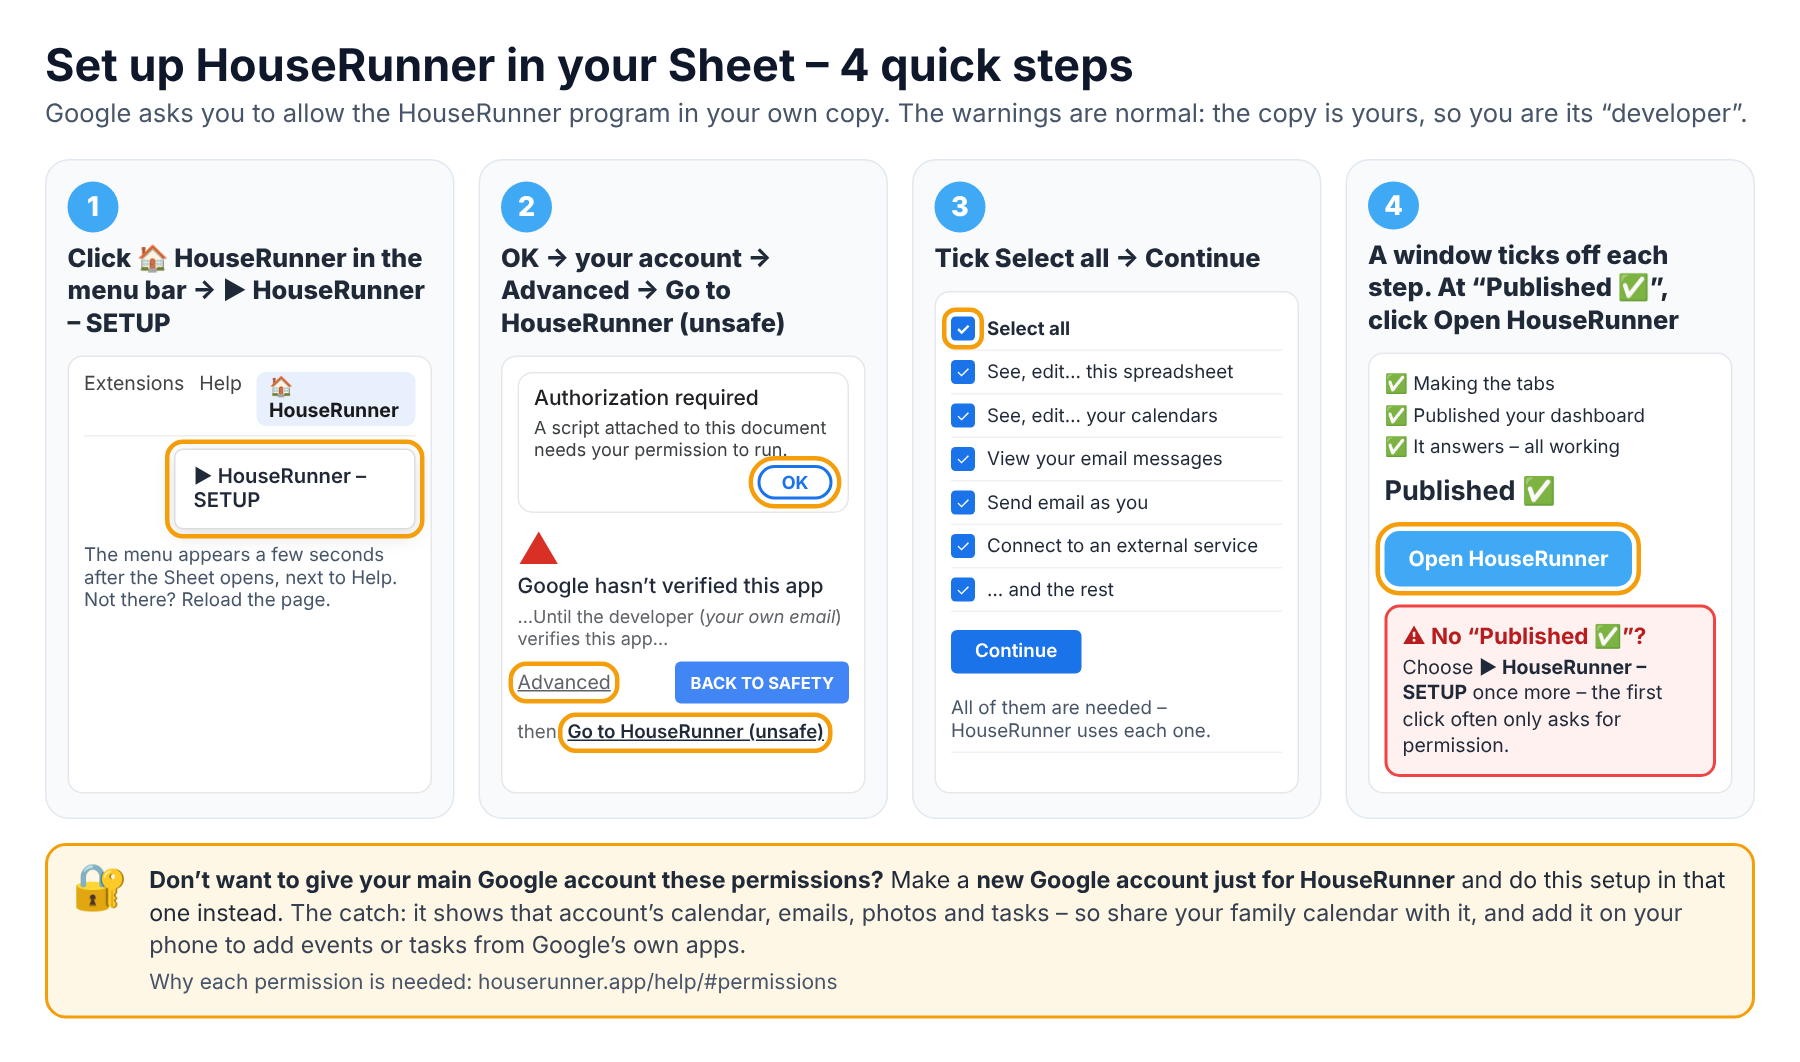
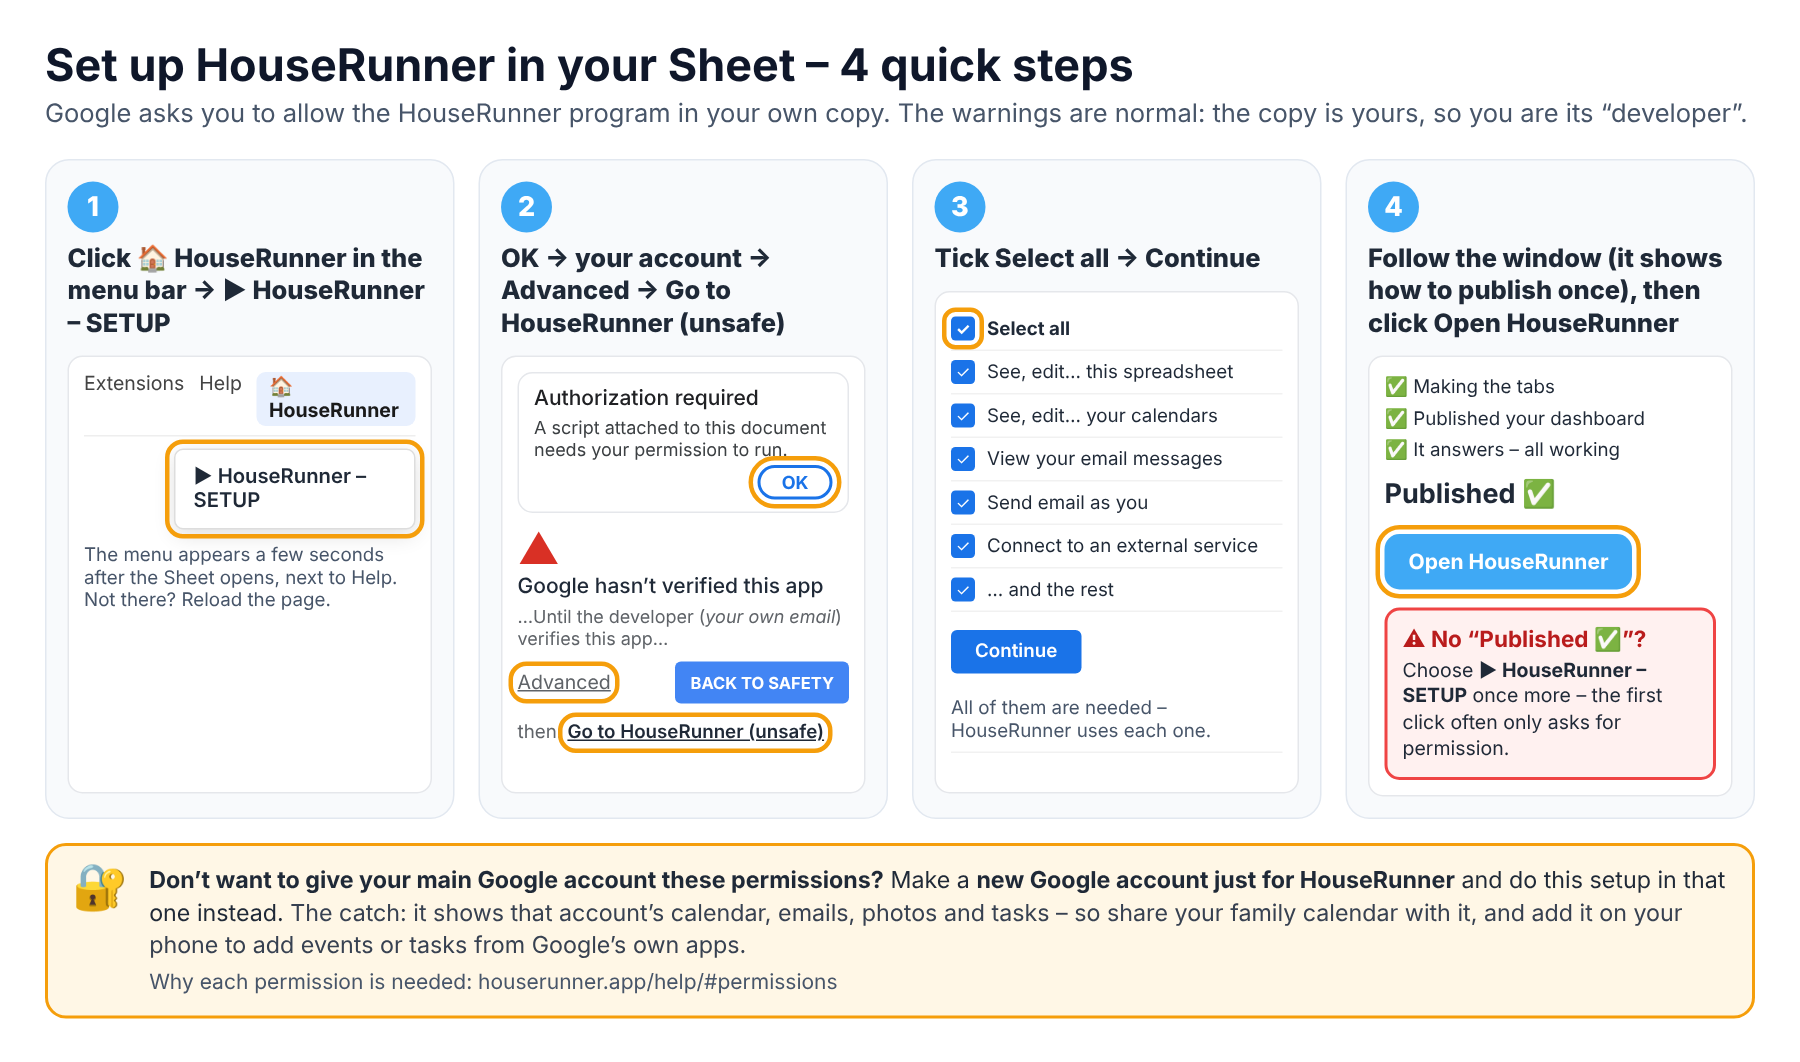
2026.11.273: guided one-off Deploy in SETUP, two fewer permissions
Claude-Session: https://claude.ai/code/session_01R2kV4GW3UVFR51NzUKtdLQ

Changed region(s): [[0.7467, 0.3418, 0.9644, 0.7458], [0.7467, 0.2175, 0.9644, 0.3107]]

diff --git a/shared/privacy.js b/shared/privacy.js
@@ -3,7 +3,7 @@
  * (Plain English draft – have it checked before giving the dashboard to people outside your own family.)
  */
 window.FD_PRIVACY = {
-    version: '5',
+    version: '6',
     updated: '8 November 2026',
     summary: [
         'Your family’s information is kept in <b>your own Google account</b> (a Google Sheet and script you own). The people who make HouseRunner can’t see it.',
@@ -16,7 +16,7 @@ window.FD_PRIVACY = {
     full: '' +
         '<h3>Who holds your information</h3><p>Everything you put into HouseRunner – children’s names, points, tasks, reminders, notes, lists, settings and API keys – is stored in a Google Sheet in your own Google account, and is processed by a Google script that you publish from that Sheet. The people who make and host HouseRunner do not receive or store any of it. You can see it all in the Sheet, and you can delete it at any time by deleting the Sheet (and its web app deployment).</p>' +
         '<h3>What the app files are</h3><p>The dashboard, Family Admin and the website are all web pages at houserunner.app, hosted on GitHub Pages. When a device loads them, GitHub (like any website) receives the device’s IP address. The pages then talk only to your own Google script. The website and its welcome page load a QR-code library from cdnjs.cloudflare.com.</p>' +
-        '<h3>Google permissions</h3><p>When you set up your Sheet, Google asks you to allow eleven things. Some are worded broadly (“all” your calendars or files) because Google doesn’t offer narrower versions for a script like this. What HouseRunner actually does with each:</p><ul>' +
+        '<h3>Google permissions</h3><p>When you set up your Sheet, Google asks you to allow nine things. Some are worded broadly (“all” your calendars or files) because Google doesn’t offer narrower versions for a script like this. What HouseRunner actually does with each:</p><ul>' +
         '<li><b>This spreadsheet</b> – reads and writes your own HouseRunner Sheet. It has no access to your other spreadsheets.</li>' +
         '<li><b>Calendar</b> – shows your family calendar’s events, and adds or changes the ones you enter in HouseRunner.</li>' +
         '<li><b>Gmail, read only</b> – the Parcels widget reads delivery emails. It can’t change, send or delete any email.</li>' +
@@ -26,7 +26,6 @@ window.FD_PRIVACY = {
         '<li><b>Connect to an external service</b> – weather, traffic, trains, bins and the other widgets you switch on (listed below), and HouseRunner’s licence check.</li>' +
         '<li><b>Run when you’re not present</b> – the timers that keep the dashboard up to date overnight.</li>' +
         '<li><b>Display content in prompts and sidebars</b> – the HouseRunner menu’s own small windows in your Sheet.</li>' +
-        '<li><b>Create and update Apps Script projects and deployments</b> – so your Sheet can publish itself (the “Published ✅” step), without you using Google’s Deploy screens.</li></ul>' +
         '<p>These run as you, inside your Google account. Nothing is sent to HouseRunner except what’s described on this page. Rather keep them off your main account? Set HouseRunner up in a new Google account just for it.</p>' +
         '<h3>Updates</h3><p>The script in your Sheet is a small “loader”: each time it runs, it downloads the current HouseRunner program from the site that hosts these apps (houserunner.app) and runs it, keeping a copy in a hidden tab of your Sheet in case the site can’t be reached. That program runs with the same access as the rest of the script, so only use it if you trust whoever publishes that site.</p>' +
         '<h3>Licence checks</h3><p>HouseRunner is sold under licence. Once a day your Google script contacts the seller’s licence server (a Google Apps Script web app in the seller’s Google account) and sends your licence key, a random installation number made by your script, and the version of the script. The seller’s register links the key to the name, email address and order number you gave when you bought it, and records the date of each check and the version. Nothing from your dashboard itself (names, calendar, points, locations and so on) is sent. If you connect a new screen by scanning its code, your family’s private link passes through the seller’s licence server for up to 10 minutes, locked with that code so the seller can’t read it. The seller keeps this to manage licences and to deal with refunds or misuse.</p>' +

diff --git a/help/topics.js b/help/topics.js
@@ -29,7 +29,6 @@ window.FD_HELP = [
 <li><b>Connect to an external service</b> – downloading the HouseRunner program, live information (weather, trains, buses, traffic, flights, news) and the daily licence check.</li>
 <li><b>Display and run third-party web content in prompts and sidebars</b> – the 🏠 HouseRunner menu and its windows in your Sheet.</li>
 <li><b>Allow this application to run when you are not present</b> – the timers that keep it up to date and check the licence.</li>
-<li><b>Create and update Google Apps Script projects and deployments</b> – so it can publish itself, without you using Google’s Deploy screens.</li>
 </ul>
 <p>If one is unticked, ▶ HouseRunner – SETUP asks again until all are allowed. If one is taken away later, only the part that needs it stops, and says which permission it needs.</p>
 <h2>Rather not give your main Google account these permissions? Use a separate one</h2>
@@ -46,7 +45,7 @@ window.FD_HELP = [
 <dl>
 <dt>“Make my copy” asks me to sign in, or copies into the wrong account</dt><dd>Sign in with the Google account the dashboard should live in – the one with the family calendar. If you’re signed into two accounts, Google uses the one shown at the top right; switch there and click <b>Make my copy</b> again.</dd>
 <dt>There’s no 🏠 HouseRunner menu in my Sheet</dt><dd>It appears a few seconds after the Sheet opens, at the end of the menus along the top (after <b>Help</b>). If it doesn’t, reload the Sheet’s tab. Still nothing? Use <b>Publish it by hand instead</b> on the setup page.</dd>
-<dt>It asks me to turn on the “Google Apps Script API”</dt><dd>That’s Google’s switch that lets your copy publish itself. Open <b>script.google.com/home/usersettings</b>, turn <b>Google Apps Script API</b> on, and go back to the SETUP window – it waits and carries on by itself (if you closed it, choose <b>🏠 HouseRunner → ▶ HouseRunner – SETUP</b> again). Check it’s the same Google account as your Sheet (top right). You only do it once.</dd>
+<dt>The SETUP window asks me to publish with Google’s Deploy button</dt><dd>That’s a one-off: Google only lets you publish your own copy. Click <b>Open Apps Script</b> in the window, then the blue <b>Deploy</b> button (top right) → <b>New deployment</b> → the ⚙ next to <b>Select type</b> → <b>Web app</b>. Set <b>Execute as: Me</b> and <b>Who has access: Anyone</b>, click <b>Deploy</b> (allow it if Google asks), then <b>Done</b>. Go back to the SETUP window – it notices by itself and carries on.</dd>
 <dt>I can’t find Deploy</dt><dd>You only need Deploy if you’re publishing by hand. It’s in the <b>Apps Script</b> tab, not the Sheet: in the Sheet click <b>Extensions → Apps Script</b>. <b>Deploy</b> is the blue button at the top right of that tab.</dd>
 <dt>Deploy just spins, or Google keeps asking for permission</dt><dd>Nearly always the browser is signed in to more than one Google account. Open a private window (Chrome: Ctrl+Shift+N), sign in with only the account the Sheet is in, open the Sheet from drive.google.com and deploy there. Use Chrome or Edge and allow pop-ups. Press Save (💾) in Apps Script before Deploy. If it still spins, make a fresh copy and deploy that in the private window.</dd>
 <dt>“Google hasn’t verified this app”</dt><dd>That’s normal: it’s your own private copy, which Google hasn’t reviewed. Click <b>Advanced</b> (small, bottom left), then <b>Go to HouseRunner (unsafe)</b>, then <b>Select all</b> → <b>Continue</b>.</dd>

diff --git a/setup/guide/setup.js b/setup/guide/setup.js
@@ -23,7 +23,6 @@
             '<li><b>Google Tasks</b> – the <b>To-Do List (Google)</b>.</li>' +
             '<li><b>Connect to an external service</b> – fetching the HouseRunner program, live information (weather, trains, traffic…) and the licence check.</li>' +
             '<li><b>Display content in prompts and sidebars</b> – the 🏠 HouseRunner menu in your Sheet. <b>Run when you’re not present</b> – the timers that keep it up to date.</li>' +
-            '<li><b>Create and update Apps Script projects and deployments</b> – so it can publish itself, without you using Google’s Deploy screens.</li></ul>' +
             '<div class="note warn"><b>Don’t want to give your main Google account these permissions?</b> Make a <a href="https://accounts.google.com/signup" target="_blank" rel="noopener">new Google account just for HouseRunner</a> and do this setup signed in to that one. ' +
             'The catch: it shows that account’s calendar, emails, photos and tasks – so share your family calendar with it, and add it on your phone to add events or tasks from Google’s own apps.</div>' +
             '</div>';
@@ -241,7 +240,7 @@
                         '<span class="mute">Pressed Cancel, or saw <b>“Access is denied”</b> / <b>“This app is blocked”</b>? Nothing has been changed – close that tab, go back to your Sheet and choose <b>▶ HouseRunner – SETUP</b> again.</span></li>' +
                     '<li><div class="note bad"><b>⚠ No “Published ✅” message yet?</b> Then choose <b>🏠 HouseRunner → ▶ HouseRunner – SETUP</b> once more. ' +
                         '<span class="mute">Usually it’s needed: Google stops as soon as you’ve allowed it, so the first click only asks for permission and the second one does the work. ' +
-                        'If it asks you to turn on one Google switch (the Apps Script API), follow its link and turn it on – the window waits, and carries on by itself.</span></div></li>' +
+                        'The first time, the window also shows you how to <b>publish</b> your dashboard – once, with Google’s Deploy button (about a minute) – and carries on by itself when that’s done.</span></div></li>' +
                     '<li>A <b>HouseRunner – SETUP</b> window shows each step as it happens (about a minute – leave it open). When it says <b>“Published ✅”</b>, click <b>Open HouseRunner</b> – setup carries on there, already connected. You can close this tab.</li></ol>' +
                     '<div class="status">⏳ Waiting for your Sheet to say <b>Published ✅</b> – this page notices by itself and carries on. No need to press Next.</div>' +
                     '<details class="pic"><summary>Show me a picture of these screens</summary><img src="../../shared/brand/sheet-start.png" alt="The four screens: the HouseRunner menu, Google’s warning, the permissions, and Published" style="width:100%;border-radius:12px;margin-top:10px"></details>' +

diff --git a/index.html b/index.html
@@ -24,11 +24,11 @@
         window.FD_DESK = true; window.FD_PHONE = !!phone;
     })();
     </script>
-    <link rel="stylesheet" href="shared/base.css?v=202611272">
-    <link rel="stylesheet" href="admin/admin.css?v=202611272">
-    <link rel="stylesheet" href="setup/desk.css?v=202611272">
-    <link rel="stylesheet" href="setup/editor.css?v=202611272">
-    <link rel="stylesheet" href="admin/phone.css?v=202611272">
+    <link rel="stylesheet" href="shared/base.css?v=202611273">
+    <link rel="stylesheet" href="admin/admin.css?v=202611273">
+    <link rel="stylesheet" href="setup/desk.css?v=202611273">
+    <link rel="stylesheet" href="setup/editor.css?v=202611273">
+    <link rel="stylesheet" href="admin/phone.css?v=202611273">
     <style>
 #landing { min-height: 100vh; }
 #landing .ld-wrap { max-width: 1100px; margin: 0 auto; padding: 30px 18px 50px; }
@@ -206,20 +206,20 @@
     </div></div>
     <!-- Connected: houserunner.app (computer) or Family Admin (phone) – the same app. -->
     <div id="app"></div>
-    <script src="shared/storecheck.js?v=202611272"></script>
-    <script src="shared/fd.js?v=202611272"></script>
-    <script src="dashboard/scripts/platform.js?v=202611272"></script>
-    <script src="shared/pair.js?v=202611272"></script>
-    <script src="shared/qrcode.js?v=202611272"></script>
-    <script src="shared/privacy.js?v=202611272"></script>
-    <script src="shared/countries.js?v=202611272"></script>
-    <script src="setup/config.js?v=202611272"></script>
-    <script src="help/topics.js?v=202611272"></script>
-    <script src="setup/editor.js?v=202611272"></script>
-    <script src="setup/calsetup.js?v=202611272"></script>
-    <script src="shared/icons.js?v=202611272"></script>
+    <script src="shared/storecheck.js?v=202611273"></script>
+    <script src="shared/fd.js?v=202611273"></script>
+    <script src="dashboard/scripts/platform.js?v=202611273"></script>
+    <script src="shared/pair.js?v=202611273"></script>
+    <script src="shared/qrcode.js?v=202611273"></script>
+    <script src="shared/privacy.js?v=202611273"></script>
+    <script src="shared/countries.js?v=202611273"></script>
+    <script src="setup/config.js?v=202611273"></script>
+    <script src="help/topics.js?v=202611273"></script>
+    <script src="setup/editor.js?v=202611273"></script>
+    <script src="setup/calsetup.js?v=202611273"></script>
+    <script src="shared/icons.js?v=202611273"></script>
     <!-- A phone gets Family Admin, written for the phone; a computer houserunner.app. -->
-    <script>document.write('<script src="admin/' + (window.FD_PHONE ? 'phone' : 'app') + '.js?v=202611272"><\/script>');</script>
+    <script>document.write('<script src="admin/' + (window.FD_PHONE ? 'phone' : 'app') + '.js?v=202611273"><\/script>');</script>
 <script>
  (function () {
    'use strict';

diff --git a/setup/guide/index.html b/setup/guide/index.html
@@ -6,8 +6,8 @@
     <title>HouseRunner Setup</title>
     <meta name="theme-color" content="#0c0e12">
     <link rel="icon" href="../../shared/brand/icon-192.png"><link rel="apple-touch-icon" href="../../shared/brand/apple-touch-icon.png">
-    <link rel="stylesheet" href="../editor.css?v=202611272">
-    <link rel="stylesheet" href="setup.css?v=202611272">
+    <link rel="stylesheet" href="../editor.css?v=202611273">
+    <link rel="stylesheet" href="setup.css?v=202611273">
 </head>
 <body>
     <header class="cfg-top"><a class="cfg-title hr-title" href="../../"><img src="../../shared/brand/mark.svg" alt="" class="hr-mini"><span>House<span class="hr-acc">Runner</span></span></a><a class="cfg-dash" href="../../dashboard/" target="_blank" rel="noopener">▶ Dashboard</a><a class="cfg-help" href="../../help/" target="_blank" rel="noopener">❓ Help</a></header>
@@ -29,8 +29,8 @@
     <script src="../../shared/countries.js"></script>
     <script src="../../shared/pair.js"></script>
     <script src="../../shared/qrcode.js"></script>
-    <script src="../calsetup.js?v=202611272"></script>
-    <script src="../../shared/storecheck.js?v=202611272"></script>
-    <script src="setup.js?v=202611272"></script>
+    <script src="../calsetup.js?v=202611273"></script>
+    <script src="../../shared/storecheck.js?v=202611273"></script>
+    <script src="setup.js?v=202611273"></script>
 </body>
 </html>

diff --git a/sw.js b/sw.js
@@ -1,6 +1,6 @@
 /* Keeps houserunner.app (the Configurator / Family Admin) available offline. Family data always comes live from Google.
  * The screen, the Family Calendar app and the licence pages look after themselves, so they're left alone here. */
-const CACHE = 'root-v126';
+const CACHE = 'root-v127';
 const FILES = ["./", "index.html", "manifest.webmanifest", "admin/app.js", "admin/phone.js", "admin/phone.css", "admin/admin.css", "admin/icons/icon-192.png", "setup/desk.css", "setup/editor.css", "setup/editor.js", "setup/calsetup.js", "setup/config.js",
   "help/topics.js", "shared/fd.js", "shared/head.js", "shared/storecheck.js", "shared/move.js", "shared/base.css", "shared/brand/mark.svg", "shared/privacy.js", "shared/countries.js", "shared/icons.js", "shared/pair.js", "shared/qrcode.js"];
 const OWN = /^\/(screen|dashboard|calendar|licencing|windows|downloads|Scripts)\//;

diff --git a/admin/sw.js b/admin/sw.js
@@ -1,5 +1,5 @@
 /* Keeps the app itself available offline. Calendar and points data always come live from Google. */
-const CACHE = 'admin-v275';
+const CACHE = 'admin-v276';
 const FILES = ["./", "index.html", "app.js", "admin.css", "manifest.webmanifest", "icons/icon-192.png", "../shared/fd.js", "../shared/storecheck.js", "../shared/move.js", "../shared/base.css", "../shared/brand/symbol.svg", "../shared/privacy.js", "../shared/countries.js", "../shared/pair.js", "../shared/qrcode.js"];
 self.addEventListener('install', e => { e.waitUntil(caches.open(CACHE).then(c => c.addAll(FILES)).then(() => self.skipWaiting())); });
 self.addEventListener('activate', e => { e.waitUntil(caches.keys().then(ks => Promise.all(ks.filter(k => k.startsWith('admin-') && k !== CACHE).map(k => caches.delete(k)))).then(() => self.clients.claim())); });

diff --git a/calendar/sw.js b/calendar/sw.js
@@ -1,5 +1,5 @@
 /* Keeps the app itself available offline. Calendar and points data always come live from Google. */
-const CACHE = 'calendar-v263';
+const CACHE = 'calendar-v264';
 const FILES = ["./", "index.html", "app.js", "calendar.css", "manifest.webmanifest", "icons/icon-192.png", "../shared/fd.js", "../shared/storecheck.js", "../shared/move.js", "../shared/base.css", "../shared/brand/symbol.svg", "../shared/pair.js", "../shared/qrcode.js"];
 self.addEventListener('install', e => { e.waitUntil(caches.open(CACHE).then(c => c.addAll(FILES)).then(() => self.skipWaiting())); });
 self.addEventListener('activate', e => { e.waitUntil(caches.keys().then(ks => Promise.all(ks.filter(k => k.startsWith('calendar-') && k !== CACHE).map(k => caches.delete(k)))).then(() => self.clients.claim())); });

diff --git a/shared/fd.js b/shared/fd.js
@@ -191,7 +191,7 @@
         clearConfig: function () { cfg = {}; try { localStorage.removeItem(KEY); } catch (e) { /* ignore */ } },
         parseSetup: parseSetup,
 
-        VERSION: '2026.11.272',     // the phone apps' version (same number as the screen's)
+        VERSION: '2026.11.273',     // the phone apps' version (same number as the screen's)
         get: function (action, params, timeout) {
             var q = 'action=' + encodeURIComponent(action) + '&code=' + encodeURIComponent(cfg.code) + '&t=' + Date.now();
             Object.keys(params || {}).forEach(function (k) { q += '&' + k + '=' + encodeURIComponent(params[k]); });

diff --git a/dashboard/scripts/notices.js b/dashboard/scripts/notices.js
@@ -6,7 +6,7 @@
  */
 (function () {
     'use strict';
-    var APP_VERSION = '2026.11.272';
+    var APP_VERSION = '2026.11.273';
     var SNOOZE_KEY = 'familyDashboard.updateSnooze', SCRIPT_KEY = 'familyDashboard.scriptNag';
     var latest = null, lastLayout = null, privacyOpen = false, lastTouch = Date.now(), updating = false;
     var IDLE_MS = 3 * 60000;
